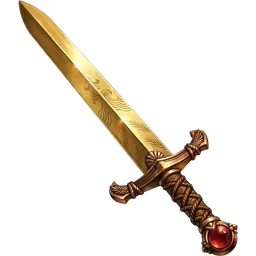
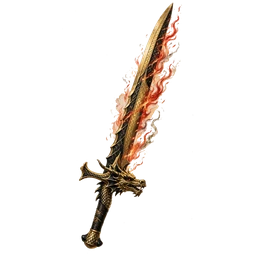
v7.90: nueva Espada Aliento de Dragón (dibujo del dueño)
Claude-Session: https://claude.ai/code/session_011d55SeVTu3PxB3VtERetnm

Changed region(s): [[0.0625, 0.0, 0.9375, 1.0]]

diff --git a/juego3d/js/juego.js b/juego3d/js/juego.js
@@ -8241,7 +8241,7 @@
   Object.keys(EQ).forEach(function (t) { EQ[t].emoji = EQ[t].icono; EQ[t].icono = '<img class="ico-obj" src="iconos/ui/q_' + t + '.webp" alt="' + EQ[t].emoji + '" draggable="false">'; });
   // v6.90: las armaduras de cada héroe (las de torneo) con su propio dibujo: iconos/ui/q_<pieza>_<héroe>.webp
   var EQ_SET_IMG = { sol: { arma: 1, casco: 1, pechera: 1, guantes: 1, botas: 1, amuleto: 1 }, luna: { arma: 1, casco: 1, pechera: 1, guantes: 1, botas: 1, amuleto: 1 } };
-  function icoPieza(p) { if (!p) return ''; if (p.s === 'dragon') return p.t === 'guantes' ? '<span class="ico-obj ico-dragon">🛡</span>' : '<img class="ico-obj" src="iconos/ui/q_' + p.t + '_dragon.webp" alt="🐉" draggable="false">'; if (p.s && EQ_SET_IMG[p.s] && EQ_SET_IMG[p.s][p.t]) return '<img class="ico-obj" src="iconos/ui/q_' + p.t + '_' + p.s + '.webp" alt="' + EQ[p.t].emoji + '" draggable="false">'; return EQ[p.t] ? EQ[p.t].icono : '🧰'; }
+  function icoPieza(p) { if (!p) return ''; if (p.s === 'dragon') return p.t === 'guantes' ? '<span class="ico-obj ico-dragon">🛡</span>' : '<img class="ico-obj" src="iconos/ui/q_' + p.t + '_dragon.webp?v=790" alt="🐉" draggable="false">'; if (p.s && EQ_SET_IMG[p.s] && EQ_SET_IMG[p.s][p.t]) return '<img class="ico-obj" src="iconos/ui/q_' + p.t + '_' + p.s + '.webp" alt="' + EQ[p.t].emoji + '" draggable="false">'; return EQ[p.t] ? EQ[p.t].icono : '🧰'; }
   // ---------- v7.84: SET DE TEMPORADA 1 · DRAGÓN IMPERIAL (calidad Temporada / Mítico) ----------
   // ranuras del juego: arma · guantes (aquí va el escudo) · casco · pechera (armadura) · botas · amuleto (anillo)
   var SET_DRAGON = { id: 'dragon', es: 'Set Dragón Imperial', en: 'Imperial Dragon Set', temporada: 1, piezas: {

diff --git a/juego3d/index.html b/juego3d/index.html
@@ -29,7 +29,7 @@ window.addEventListener("error", function (e) {
 <style>html, body { background: #120a05; margin: 0; }</style>
 <link rel="preload" as="image" href="iconos/ui/portada.jpg?v=713">
 <script src="js/tk-portada.js?v=715"></script>
-<link rel="stylesheet" href="css/estilo.css?v=789">
+<link rel="stylesheet" href="css/estilo.css?v=790">
 <link rel="preconnect" href="https://fonts.googleapis.com"><link rel="preconnect" href="https://fonts.gstatic.com" crossorigin>
 <link href="https://fonts.googleapis.com/css2?family=Cinzel:wght@700;900&family=UnifrakturCook:wght@700&display=swap" rel="stylesheet" media="print" onload="this.media='all'">
 <link rel="stylesheet" href="css/tema-oscuro.css?v=764">

diff --git a/juego3d/js/tema-oscuro.js b/juego3d/js/tema-oscuro.js
@@ -1,2 +1,2 @@
 // TEMA OSCURO: carga el tema (tema-oscuro-base.js) y los cambios de la v6.80 en orden
-['tema-oscuro-base', 'tk-v680-estilo', 'tk-v680-perfil', 'tk-v680-consejos', 'tk-v681', 'tk-v683', 'tk-v684', 'tk-v689', 'tk-v694', 'tk-v714'].forEach(function (n) { document.write('<script src="js/' + n + '.js?v=789"><\/script>'); });
+['tema-oscuro-base', 'tk-v680-estilo', 'tk-v680-perfil', 'tk-v680-consejos', 'tk-v681', 'tk-v683', 'tk-v684', 'tk-v689', 'tk-v694', 'tk-v714'].forEach(function (n) { document.write('<script src="js/' + n + '.js?v=790"><\/script>'); });

diff --git a/juego3d/sw.js b/juego3d/sw.js
@@ -1,6 +1,6 @@
 // Tiny Kingdom se juega solo con internet: no se guarda nada para jugar sin conexión.
 // Cambia VERSION cada vez que publiques una versión nueva del juego.
-var VERSION = 'tinykingdom-v7.89';
+var VERSION = 'tinykingdom-v7.90';
 
 self.addEventListener('install', function () { self.skipWaiting(); });
 

diff --git a/juego3d/js/datos.js b/juego3d/js/datos.js
@@ -3,7 +3,7 @@
 //  Para cambiar el nombre del juego, cambia NOMBRE_JUEGO.
 // =====================================================================
 
-var VERSION_JUEGO = '7.89';
+var VERSION_JUEGO = '7.90';
 var NOMBRE_JUEGO = 'Tiny Kingdom';
 
 // ---------------- Modo DUEÑO (solo para pruebas) ----------------
